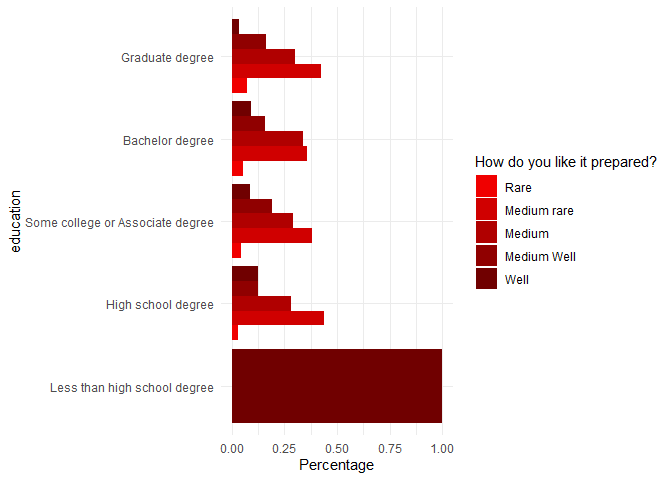
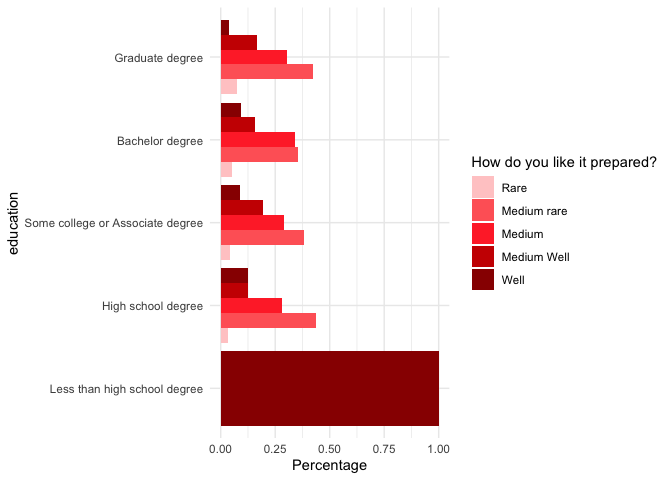
update my code

diff --git a/Steak.md b/Steak.md
@@ -33,13 +33,19 @@ examining are:
 
 # The Data
 
-This data set looks at social factors and risky behaviors that are found
-in the American lifestyle. The purpose of this data set is to predict
-how lifestyle choices correlate with how Americans like there steak. The
-data set contains 551 observations and has 15 variables which are mainly
-categorical. The data set we chose lists 12 factors that could
-contribute to how people prefer their steak cooked, which are listed
-below.
+[This is the link to our
+dataset.](https://github.com/fivethirtyeight/data/blob/master/steak-survey/steak-risk-survey.csv)
+Our dataset is from the fivethirtyeight organization, their data
+repository, in the steak-survey folder. This data set looks at social
+factors and risky behaviors that are found in the American lifestyle.
+The purpose of this data set is to predict how lifestyle choices
+correlate with how Americans like there steak. The data set contains 551
+observations and has 15 variables which are mainly categorical. It was
+not cleaned, since it had some almost entirely NA rows and the column
+names had to be recoded (the recoded names are given below). Many
+responses had at least one NA value, and these were dealt with in the
+pipeline. The data set we chose lists 12 factors that could contribute
+to how people prefer their steak cooked, which are listed below.
 
 - Lottery: two hypothetical betting situations, the individual picks the
   one they think is the safer bet, response = A/B
@@ -95,12 +101,6 @@ anyNA(clean_steak)
 library(tidyverse)
 ```
 
-    ## Warning: package 'tidyverse' was built under R version 4.4.2
-
-    ## Warning: package 'forcats' was built under R version 4.4.2
-
-    ## Warning: package 'lubridate' was built under R version 4.4.2
-
     ## ── Attaching core tidyverse packages ──────────────────────── tidyverse 2.0.0 ──
     ## ✔ dplyr     1.1.4     ✔ purrr     1.0.2
     ## ✔ forcats   1.0.0     ✔ stringr   1.5.1
@@ -118,9 +118,6 @@ eat_steak <- clean_steak %>%
 
 no_steak <- clean_steak %>% 
   filter(Consume.Steak == "No")
-
-# View(eat_steak)
-# View(no_steak)
 ```
 
 Megan’s Code:
@@ -128,11 +125,11 @@ Megan’s Code:
 ``` r
 #MEGAN'S CODE
 steak_colors <- c(
-  "Rare" = "#f00000",        # light pink
-  "Medium rare" = "#d00000",
-  "Medium" = "#b00000",
-  "Medium Well" = "#900000",
-  "Well" = "#700000"     # dark red
+  "Rare" = "#ffcccc",
+  "Medium rare" = "#ff6666",
+  "Medium" = "#ff3333",
+  "Medium Well" = "#cc0000",
+  "Well" = "#990000"
 )
 
 clean_steak$Education <- factor(clean_steak$Education, 
@@ -198,6 +195,8 @@ eat_steak %>%
 ![](Steak_files/figure-gfm/unnamed-chunk-4-2.png)<!-- -->
 
 ``` r
+#THE FOLLOWING CODE WAS NOT INCLUDED IN THE FINAL PRESENTATION AND ANALYSIS
+consume_colors <- c("Yes" = "#00cc00", "No" = "#cc0000")  # Green for Yes, Red for No
 #This was considered but there was little correlation so it's just here for records:
 clean_steak %>%
   filter(Affair != '') %>%
@@ -207,6 +206,7 @@ clean_steak %>%
   mutate(percentage_total = n / sum(n)) %>%
   ggplot(aes(x=factor(`Consume.Steak`), y=percentage_total, fill=Affair)) +
   geom_col(position="dodge") +
+  scale_fill_manual(values = consume_colors) +
   theme_minimal() +
   labs(x="consume steak", y="Percentage", fill="Affair")
 ```
@@ -214,6 +214,7 @@ clean_steak %>%
 ![](Steak_files/figure-gfm/unnamed-chunk-5-1.png)<!-- -->
 
 ``` r
+#THE FOLLOWING CODE WAS NOT INCLUDED IN THE FINAL PRESENTATION AND ANALYSIS
 #This was considered but the how you like it prepared is more informative on which steak preparation style is better
 clean_steak %>%
   filter(Education != '') %>%
@@ -224,6 +225,7 @@ clean_steak %>%
   ggplot(aes(x=factor(Education), y=percentage_total, fill=`Consume.Steak`)) +
   geom_col(position="dodge") +
   coord_flip() +
+  scale_fill_manual(values = consume_colors) +
   theme_minimal() +
   labs(x="Education", y="Percentage", fill="Eat Steak")
 ```
@@ -231,6 +233,7 @@ clean_steak %>%
 ![](Steak_files/figure-gfm/unnamed-chunk-5-2.png)<!-- -->
 
 ``` r
+#THE FOLLOWING CODE WAS NOT INCLUDED IN THE FINAL PRESENTATION AND ANALYSIS
 #This was used to find which two preferences are most popular for map below
 eat_steak %>%
   filter(Location != '') %>%
@@ -241,6 +244,7 @@ eat_steak %>%
   ggplot(aes(x=factor(Location), y=percentage_prepared, fill=Prepared)) +
   geom_col(position="dodge") +
   coord_flip() +
+  scale_fill_manual(values = steak_colors) +
   theme_minimal() +
   labs(x="Location", y="Percentage", fill="How do you like it prepared?")
 ```
@@ -311,13 +315,26 @@ ggplot(us_map_long, aes(x = long, y = lat, group = group, fill = percent)) +
 
 ### Megan’s Conclusions
 
-- If you are opening a restaurant in the southern or midwest states,
-  medium rare would be the best choice for preparing your steak.
+- If you are opening a restaurant in the southern or Midwest states,
+  medium rare would be the best choice for preparing your steak. Medium
+  is a better choice for western states.
 - Those who have an affair are more likely to prefer steak cooked longer
   than those who have not had an affair.
 - As the level of education increases, so does the preference for rare
   steak. As the level of education increases, the preference for
   well-done steak decreases.
+- Further investigation should be done for the variable Education,
+  because 100% of respondents who have less than a high school degree
+  that consume steak said they prefer it well done. This highlights a
+  potential issue that not enough samples were taken, or that there is a
+  third confounding variable, like age.
+- Further investigation into how rare and well correlate would be
+  interesting; is there a strong negative correlation between them as
+  indicated by the variable Education?
+- A chain restaurant in a town where there are graduate programs and
+  professionals with PhDs should have more rare steak options than their
+  other locations where most of the population has at most a bachelor’s
+  degree.
 - Across all responses, medium-rare is the most popular choice.
 
 Gwen’s Code:
